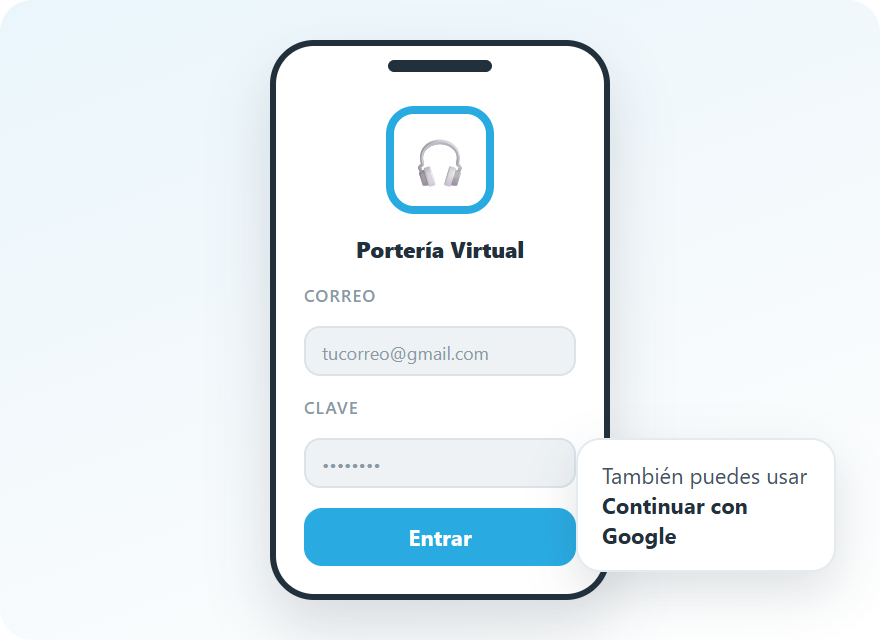
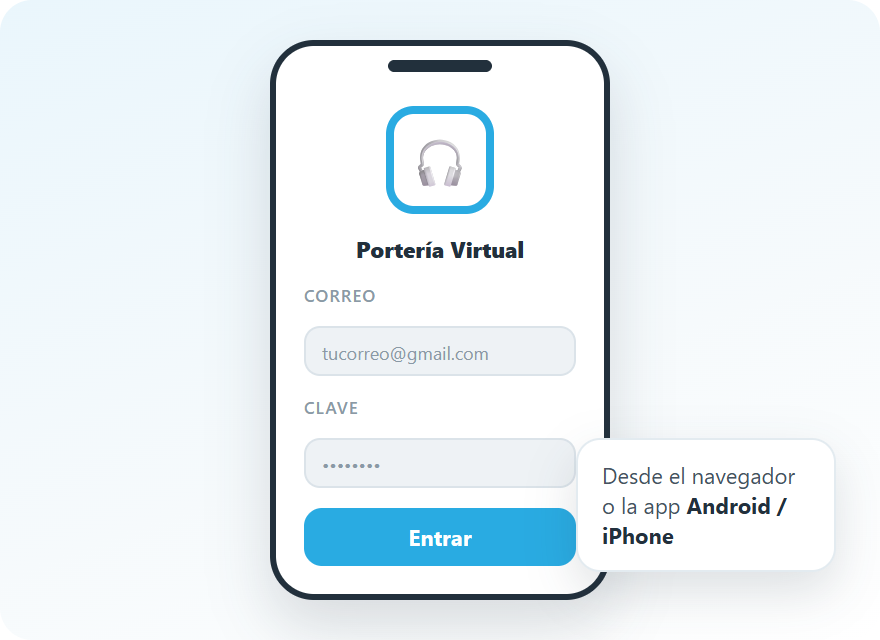
fix(email): quitar 'Continuar con Google' de la campaña QR
El ingreso con Google solo funciona cuando el correo ya está habilitado en la
base de datos; promoverlo masivamente genera rechazos 'no registrada' cuando el
Gmail personal difiere del correo registrado. La ilustración del paso 1 ahora
menciona navegador/app en vez del botón de Google.

Changed region(s): [[0.675, 0.7188, 0.9205, 0.875]]

diff --git a/public/email/invitacion-qr.html b/public/email/invitacion-qr.html
@@ -46,8 +46,8 @@
               <img src="https://app.porteriavirtual.cl/email/paso1.png" alt="Pantalla de ingreso: correo y clave, o botón Continuar con Google" width="440" style="display:block; width:100%; max-width:440px; height:auto; border-radius:12px;">
             </td></tr>
             <tr><td align="center" style="font-size:13.5px; line-height:1.55; color:#5b6b78; padding:0 8px 18px;">
-              En <a href="https://app.porteriavirtual.cl" style="color:#1b87b8;">app.porteriavirtual.cl</a> con tu correo y clave.
-              Si tu correo es Gmail, también sirve el botón <strong>“Continuar con Google”</strong>.
+              En <a href="https://app.porteriavirtual.cl" style="color:#1b87b8;">app.porteriavirtual.cl</a> o en la app
+              de tu celular, con tu correo y clave.
               ¿No tienes tu clave? Pídela a tu administración o en conserjería.
             </td></tr>
           </table>
@@ -100,7 +100,12 @@
           </table>
         </td></tr>
         <tr><td align="center" style="padding:0 32px 26px; font-family:Arial,Helvetica,sans-serif;">
-          <p style="margin:0; font-size:12.5px; color:#8a99a6;">Funciona desde cualquier celular o computador, sin instalar nada.</p>
+          <p style="margin:0 0 4px; font-size:12.5px; color:#8a99a6;">
+            Descarga la app en
+            <a href="https://play.google.com/store/apps/details?id=cl.porteriavirtual.app" style="color:#1b87b8; font-weight:bold;">Google Play</a> (Android) o en el
+            <a href="https://apps.apple.com/cl/app/porter%C3%ADa-virtual-app/id6773737133" style="color:#1b87b8; font-weight:bold;">App Store</a> (iPhone).
+          </p>
+          <p style="margin:0; font-size:12.5px; color:#8a99a6;">O úsala desde el navegador, sin instalar nada.</p>
         </td></tr>
 
         <!-- ayuda -->
